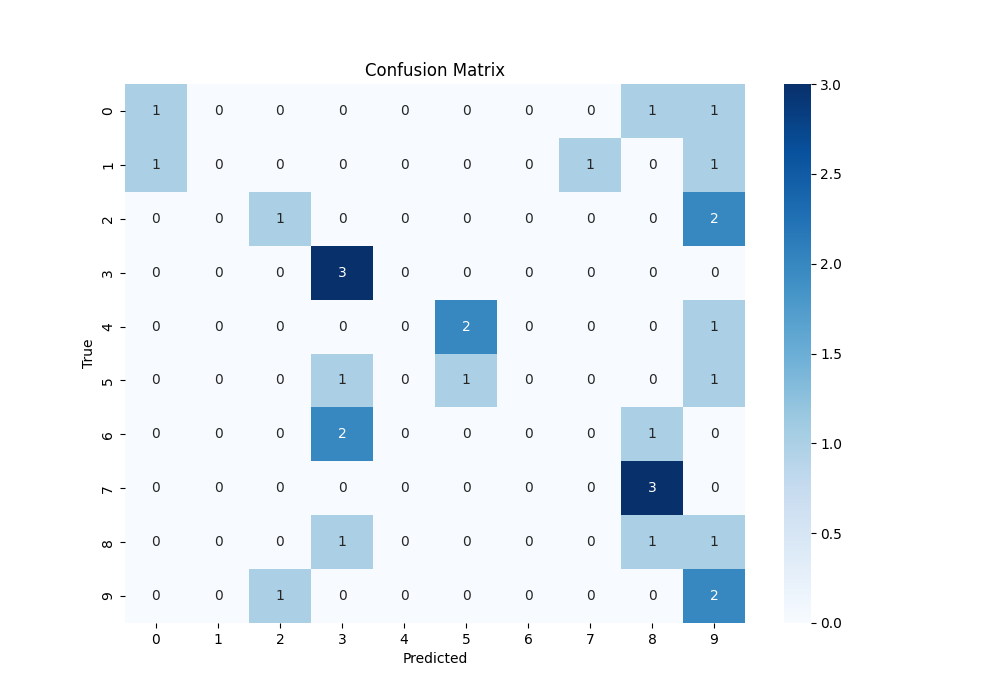
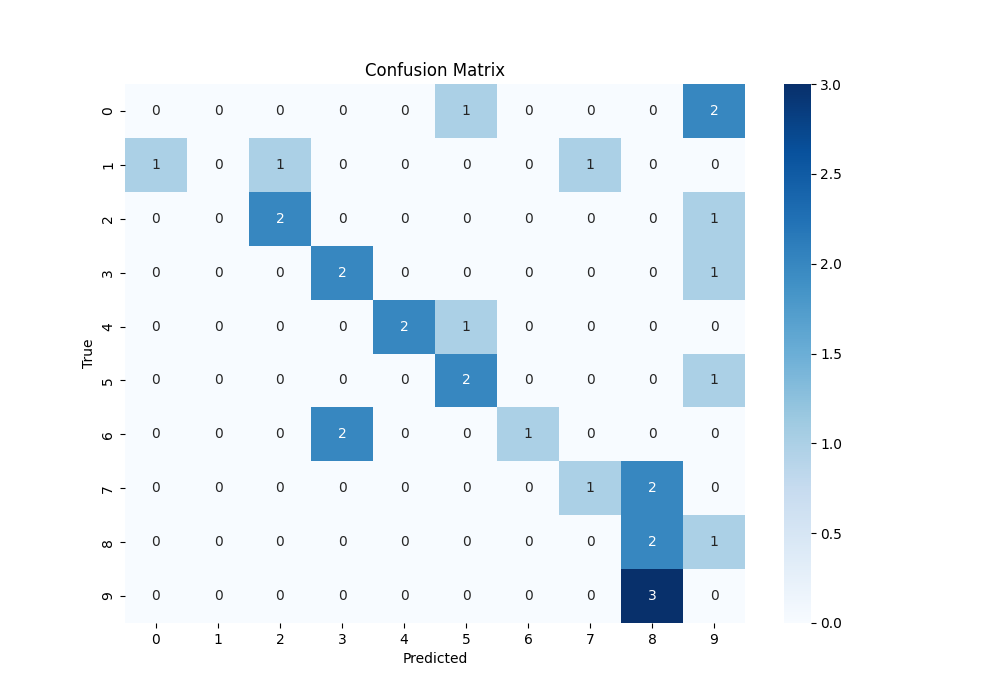
its better 40

diff --git a/Sem4/AI/neural/compile.py b/Sem4/AI/neural/compile.py
@@ -14,7 +14,6 @@ model = tf.keras.models.Sequential([
     # relu - rectified linear unit
     # zero negative values, shut down neuron, help with vanishing gradient
     tf.keras.layers.Conv2D(32, (3, 3), activation='relu'),
-    tf.keras.layers.Conv2D(64, (3, 3), activation='relu'),
 
     # flattens image to 1D array
     tf.keras.layers.Flatten(),

diff --git a/Sem4/AI/neural/train_and_metrics.py b/Sem4/AI/neural/train_and_metrics.py
@@ -5,7 +5,7 @@ import matplotlib.pyplot as plt
 from sklearn.metrics import confusion_matrix, classification_report
 from custom_data.process_img import get_imgs
 
-BEST_EPOCHS = 11
+BEST_EPOCHS = 12
 
 np.random.seed(279679)
 tf.random.set_seed(279679)

diff --git a/Sem4/AI/neural/train_and_plot.py b/Sem4/AI/neural/train_and_plot.py
@@ -29,7 +29,7 @@ train_accuracies = []
 val_accuracies = []
 custom_accuracies = []
 
-epochs = 30
+epochs = 20
 for epoch in range(epochs):
 
     # train for one epoch
